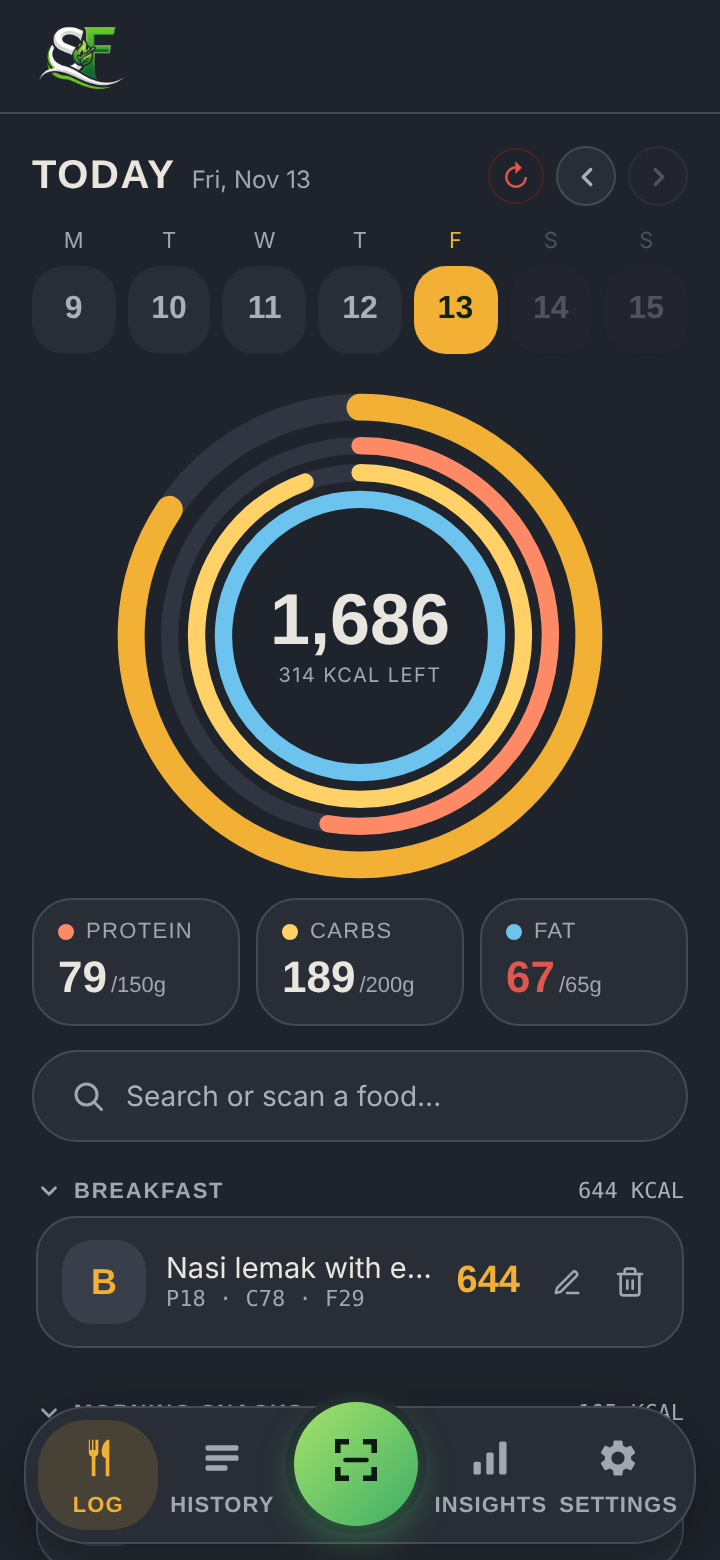
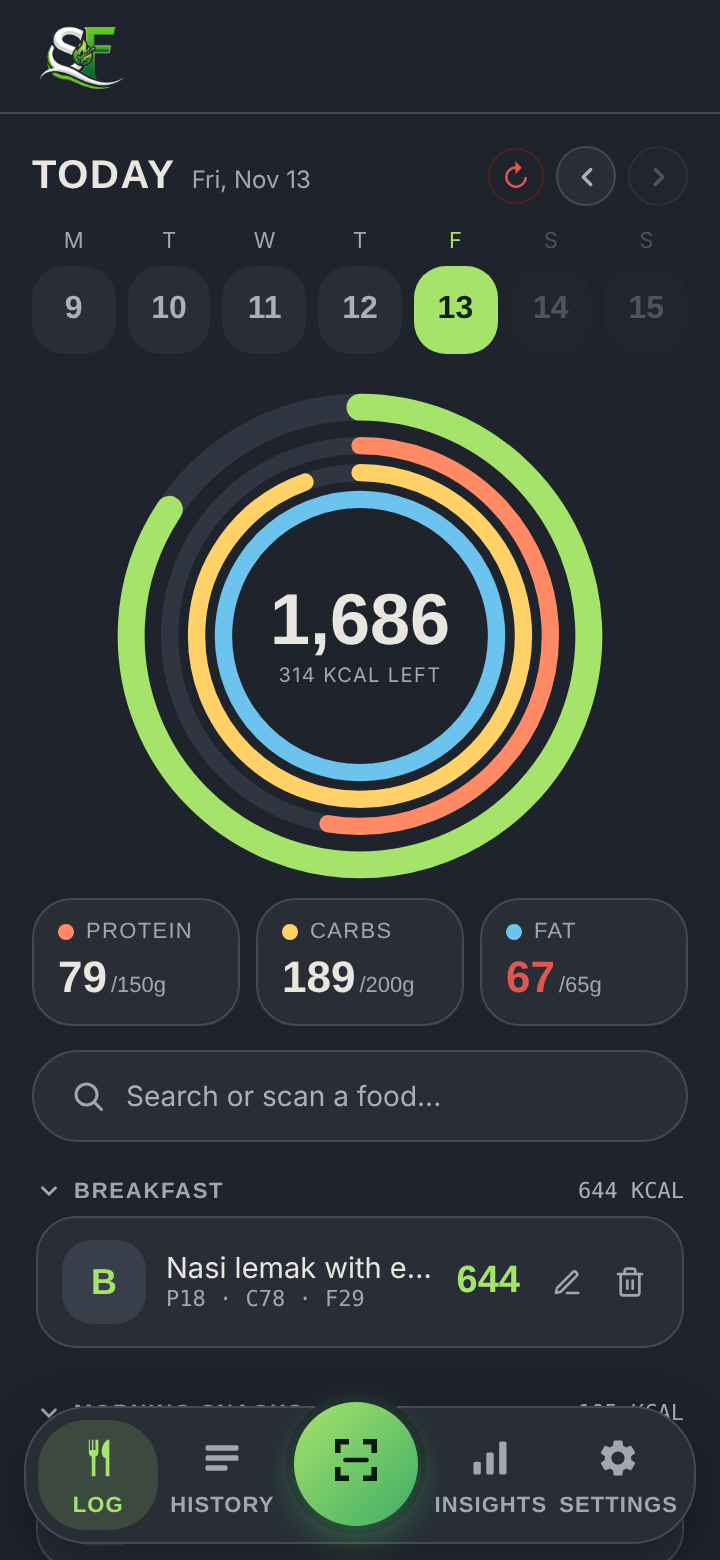
Slate surfaces from SaviorFit Logger, keep green as the accent (gold -> green everywhere)
Claude-Session: https://claude.ai/code/session_01QZSVJprzFU1FdENYrKXGsb

diff --git a/index.html b/index.html
@@ -768,9 +768,9 @@
   }
   .food-note{
     margin-top:8px; padding:8px 10px; border-radius:var(--radius-sm);
-    background:rgba(242,177,52,0.10); color:#e2b04a; font-size:11.5px; line-height:1.45;
+    background:rgba(var(--accent-rgb),0.10); color:var(--accent); font-size:11.5px; line-height:1.45;
   }
-  .row-warn{color:#e2b04a;}
+  .row-warn{color:var(--accent);}
   .data-note{margin:8px 0 2px; font-size:11.5px; line-height:1.45; color:var(--text-faint);}
   .serving-eq{margin-left:auto; font-family:'JetBrains Mono',monospace; font-size:11.5px; color:var(--text-faint); white-space:nowrap;}
   .selected-food-banner .grams-input{
@@ -1495,12 +1495,12 @@
     --text:#e9e6df;
     --text-dim:#aab0b9;
     --text-faint:#a1a7b0;
-    --accent:#f2b134;
-    --accent-dim:#7a6224;
-    --accent-rgb:242,177,52;
+    --accent:#a6e36b;
+    --accent-dim:#3b5a24;
+    --accent-rgb:166,227,107;
     --accent-2:#e0574f;
     --accent-2-dim:#4a2321;
-    --success:#5fb86a;
+    --success:#4fb870;
     --success-dim:#233821;
     --c-protein:#ff8a65;
     --c-carbs:#ffd166;
@@ -1508,7 +1508,7 @@
     --header-bg:#1f232b;
     --header-text:#e9e6df;
     --header-text-faint:#a1a7b0;
-    --header-accent:#f2b134;
+    --header-accent:#a6e36b;
     --header-line:#434a57;
   }
   body[data-theme="light"]{
@@ -1520,9 +1520,9 @@
     --text:#1c1e23;
     --text-dim:#5b616a;
     --text-faint:#6f747c;
-    --accent:#966000;
-    --accent-dim:#f0dfb8;
-    --accent-rgb:150,96,0;
+    --accent:#3f7a12;
+    --accent-dim:#dcefc8;
+    --accent-rgb:63,122,18;
     --accent-2:#a5372f;
     --accent-2-dim:#f6dcda;
     --success:#31703e;
@@ -1796,7 +1796,7 @@
   .pf-since{font:500 12px 'Inter',sans-serif; color:var(--text-faint); margin-top:4px;}
   .pf-since b{color:var(--accent); font-weight:700;}
   .pf-acts{display:flex; gap:10px; margin-top:16px;}
-  .pf-share{flex:1; height:44px; border-radius:12px; border:none; background:var(--accent); color:#1c1500; font:700 14px 'Oswald',sans-serif; letter-spacing:.06em; text-transform:uppercase; cursor:pointer;}
+  .pf-share{flex:1; height:44px; border-radius:12px; border:none; background:var(--accent); color:#0b1a10; font:700 14px 'Oswald',sans-serif; letter-spacing:.06em; text-transform:uppercase; cursor:pointer;}
   .pf-share:active{transform:scale(.98);}
   .pf-edit{flex:0 0 44px; height:44px; border-radius:12px; border:1px solid rgba(var(--accent-rgb),.55); background:transparent; color:var(--accent); display:flex; align-items:center; justify-content:center; padding:0; cursor:pointer;}
   .pf-edit svg{width:18px; height:18px;}
@@ -1805,7 +1805,7 @@
   .setc-wrap.install{border-color:rgba(var(--accent-rgb),.45);}
   .setc{display:flex; align-items:center; gap:14px; padding:13px 14px; cursor:pointer; -webkit-tap-highlight-color:transparent;}
   .setc-ic{width:38px; height:38px; border-radius:12px; background:rgba(var(--accent-rgb),.14); color:var(--accent); display:flex; align-items:center; justify-content:center; flex:0 0 auto;}
-  .setc-ic.solid{background:var(--accent); color:#1c1500;}
+  .setc-ic.solid{background:var(--accent); color:#0b1a10;}
   .setc-ic svg{width:19px; height:19px;}
   .setc-tx{flex:1; min-width:0; display:flex; flex-direction:column; gap:2px;}
   .setc-t{font:600 15px 'Oswald',sans-serif; text-transform:uppercase; letter-spacing:.03em; color:var(--text);}
@@ -1823,10 +1823,10 @@
   .theme-opt.active b{color:var(--accent);}
   .theme-prev{display:flex; flex-direction:column; gap:4px; height:46px; border-radius:9px; padding:7px; background:#282d36;}
   .theme-prev i{display:block; height:6px; border-radius:3px; background:#383f4b;}
-  .theme-prev i:first-child{width:60%; background:#f2b134;} .theme-prev i:last-child{width:85%;}
+  .theme-prev i:first-child{width:60%; background:#a6e36b;} .theme-prev i:last-child{width:85%;}
   .theme-opt.light{background:#f3f0e8;} .theme-opt.light .theme-prev{background:#fff;}
-  .theme-opt.light .theme-prev i{background:#e9e4d9;} .theme-opt.light .theme-prev i:first-child{background:#966000;}
-  .theme-opt.light b{color:#5b616a;} .theme-opt.light.active b{color:#966000;}
+  .theme-opt.light .theme-prev i{background:#e9e4d9;} .theme-opt.light .theme-prev i:first-child{background:#3f7a12;}
+  .theme-opt.light b{color:#5b616a;} .theme-opt.light.active b{color:#3f7a12;}
 
   .stats-fab{position:absolute; left:12px; bottom:12px; z-index:3; display:flex; align-items:center; gap:7px; height:38px; padding:0 14px 0 11px; border-radius:19px; border:1px solid rgba(var(--accent-rgb),.55); background:var(--panel); color:var(--accent); font:700 12px 'Oswald',sans-serif; letter-spacing:.08em; text-transform:uppercase; cursor:pointer; box-shadow:0 4px 14px rgba(0,0,0,.35);}
   .stats-fab svg{width:17px; height:17px;}
@@ -4596,7 +4596,7 @@
       key.position.set(2, 3, 2.5);
       var fill = new THREE.DirectionalLight(0xbfd0ff, 0.4);
       fill.position.set(-3, 1.5, 1);
-      var rim = new THREE.DirectionalLight(0xf2b134, 0.4);
+      var rim = new THREE.DirectionalLight(0xa6e36b, 0.3);
       rim.position.set(0, 2, -3);
       scene.add(key, fill, rim);
 

diff --git a/sw.js b/sw.js
@@ -17,7 +17,7 @@
 // caching logic changes, so old cached entries get cleaned up on
 // the next activate rather than lingering forever.
 
-var SHELL_CACHE = 'saviorfuel-shell-v7';
+var SHELL_CACHE = 'saviorfuel-shell-v8';
 var RUNTIME_CACHE = 'saviorfuel-runtime-v1';
 
 // Required: cache.addAll() aborts the whole install if even one URL in
